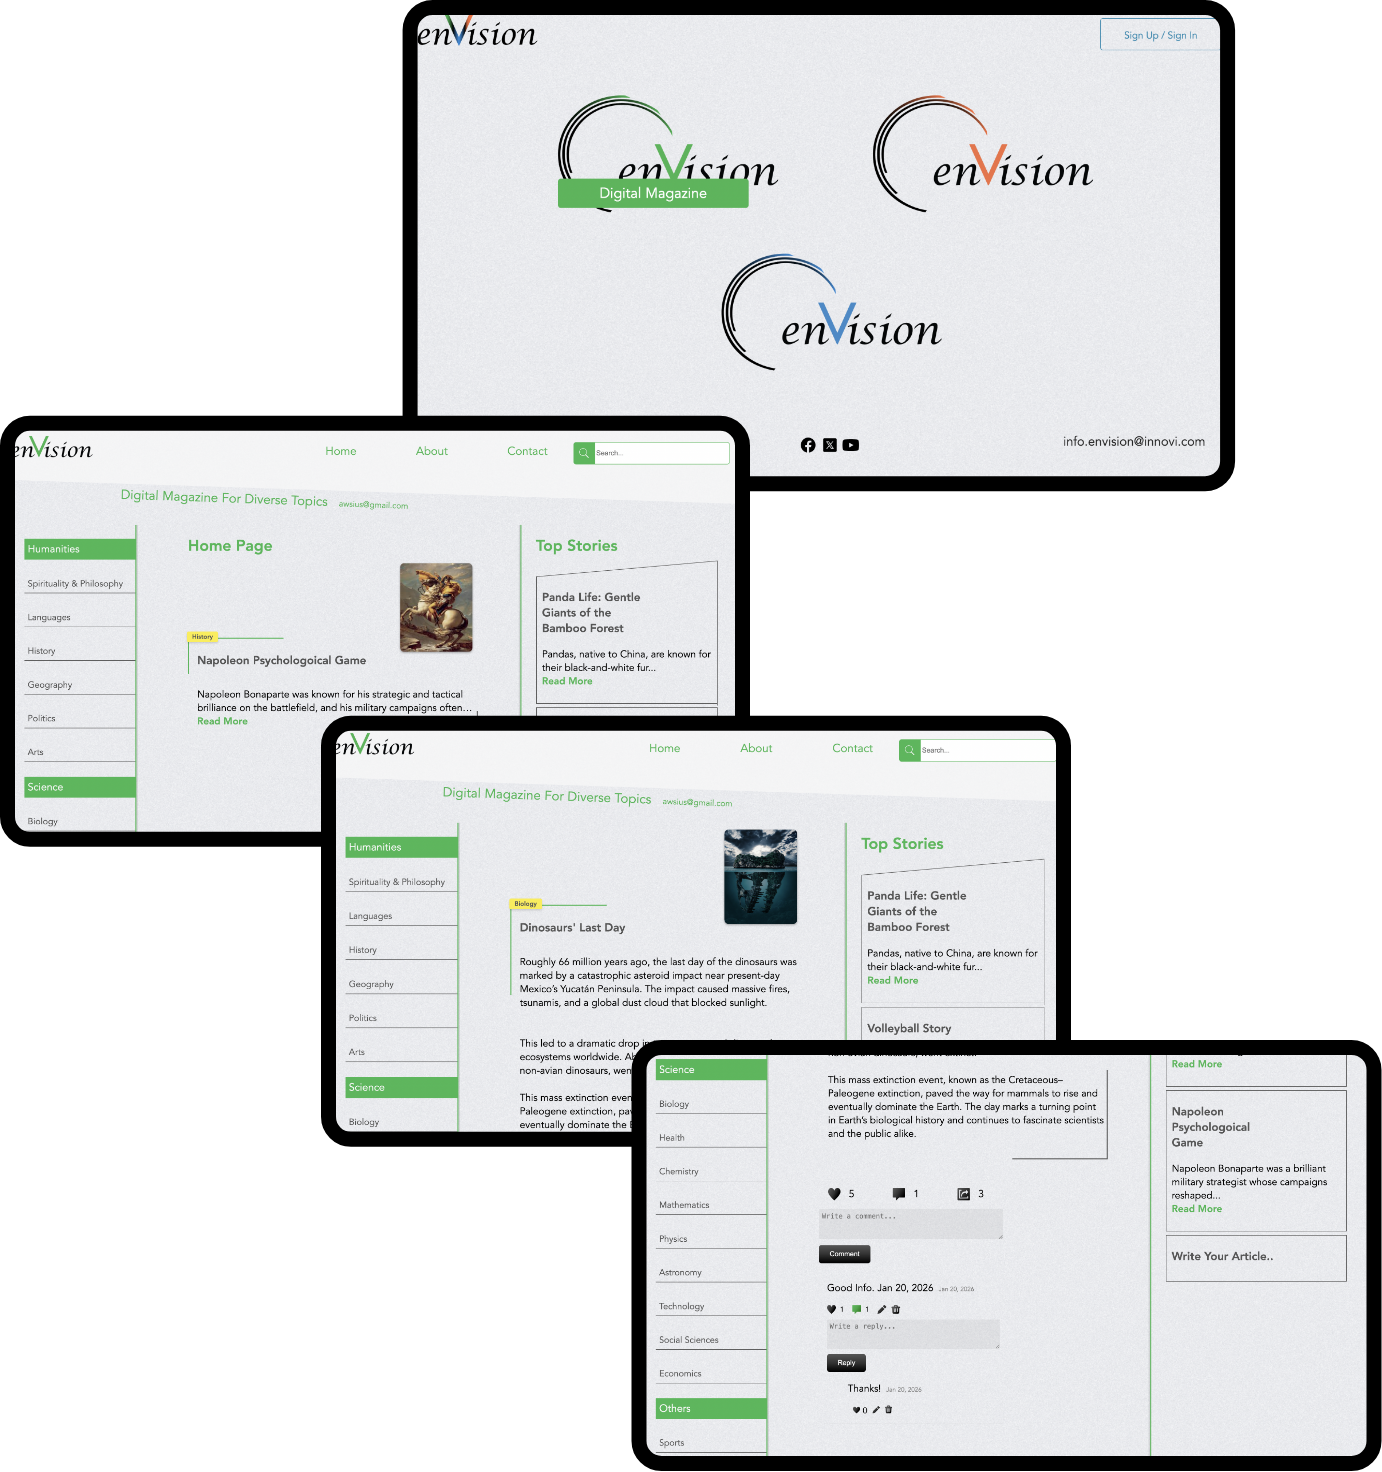
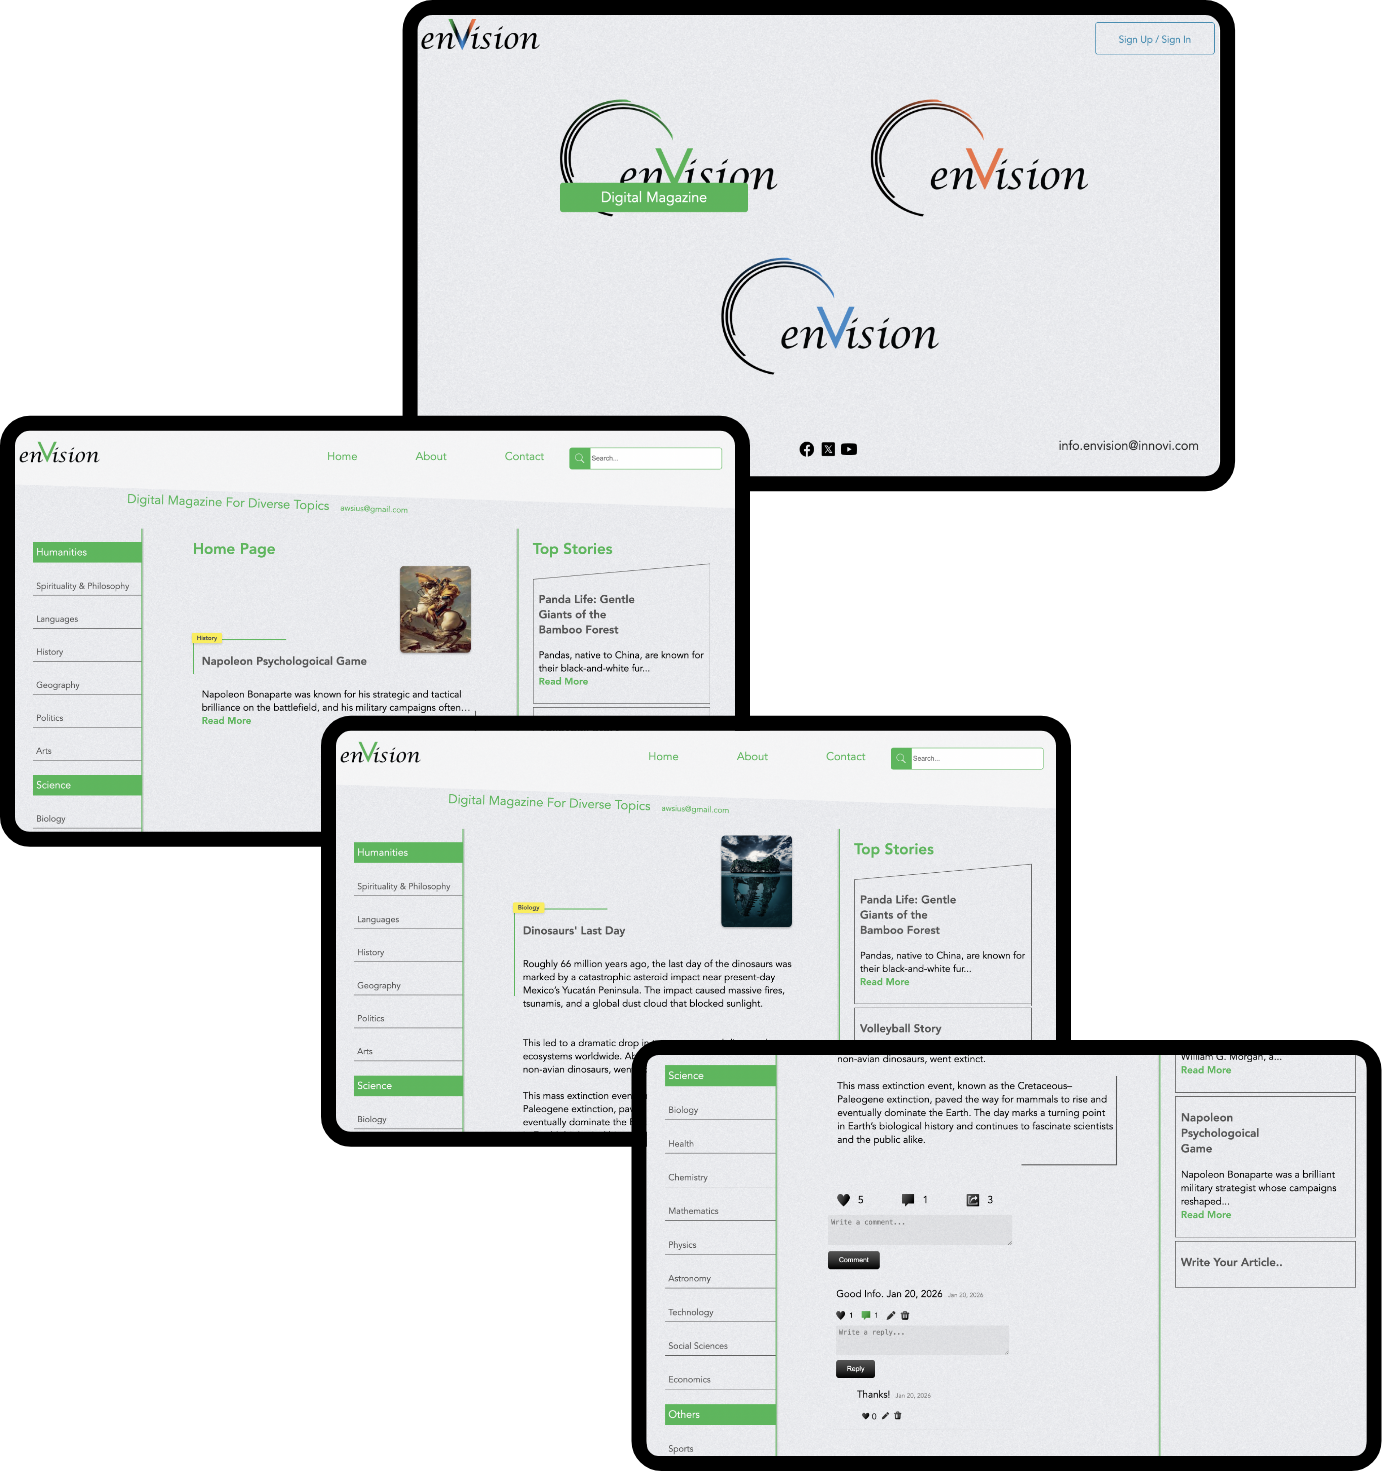
More Updates for Responsive Design

diff --git a/css/Gstyle.css b/css/Gstyle.css
@@ -470,6 +470,8 @@ footer p {
     }
      #allTop {
         background-size: 144%;
+        width: 260%;
+        margin-left: -3%;
     }
     .navigation {
         display: none;
@@ -518,7 +520,7 @@ footer p {
         height: 260%;
     }
     .purposeGG {
-        width: 280%;
+        width: 270%;
     }
     .divPM{
         width: 268%;
@@ -538,6 +540,10 @@ footer p {
 }
 
 @media (min-width: 374px) and (max-width: 376px) {
+
+    #allTop {
+        width: 266%;
+    }
     .gardengateImg {
         margin-top: -80%;
         height: 240%;
@@ -550,6 +556,9 @@ footer p {
     }
     .secFF {
         width: 257%;
+    }
+    .contact {
+        width: 266%;
     }
 } 
 
@@ -703,7 +712,7 @@ footer p {
         margin-top: -5%;
      }
     nav {
-        margin-top: -100%;
+        margin-top: -220%;
         margin-left: 35%;
     }
     nav a {

diff --git a/css/Vstyle.css b/css/Vstyle.css
@@ -912,15 +912,15 @@ footer p {
     }
     .protoEN {
         margin-left: -2%;
-        height: 222px;
+        height: 255px;
     }
     .protoEN2 {
-        margin-left: 0%;
-        height: 200px;
+        margin-left: 2%;
+        height: 175px;
     }
     .protoEN3 {
-        margin-left: -7%;
-        height: 222px;
+        margin-left: 0%;
+        height: 175px;
     }
     footer{
         width: 100%;
@@ -976,6 +976,9 @@ footer p {
         height: 17%;
         margin-top: 0%;
     }
+    .copyright{
+        width: 100.3%;
+    }
 }
 
 
@@ -998,6 +1001,7 @@ footer p {
     }
     #allTop{
         width: 102%;
+        background-size: 120%;
     }
     #heroContent {
         width: 100%;
@@ -1155,7 +1159,7 @@ footer p {
         margin-bottom: -2%;
     }
     .copyright{
-        width: 100%;
+        width: 100.3%;
     }
 }
 

diff --git a/css/Cstyle.css b/css/Cstyle.css
@@ -519,7 +519,7 @@ footer p {
     }
     #allTop {
         background-size: 150%;
-        width: 281%;
+        width: 268%;
         margin-left: -4%;
     }
     .navigation {
@@ -613,7 +613,7 @@ footer p {
     }
      #allTop {
         background-size: 144%;
-        width: 270%;
+        width: 260%;
         margin-left: -3%;
     }
     .navigation {
@@ -661,14 +661,14 @@ footer p {
         width: 242%;
     }
     .whyUs {
-        width: 255%;
+        width: 250%;
         margin-bottom: -37%;
     }
     #contact {
-        width: 255%;
+        width: 260%;
     }
     .copyright {
-        width: 255%;
+        width: 260%;
     }
     .footerAbout {
         margin-left: 5%;

diff --git a/projects.html b/projects.html
@@ -332,7 +332,7 @@
         <section class="ViB">
                 <img src="images/ViB.png" class="ViBProto"/>
                 <div class="contentViB">
-                  <img src="images/ViBLg.png" class="projectsLogo TravelZone-logo"/>
+                  <img src="images/ViBLg.png" class="projectsLogo ViB-logo"/>
                   <p>
                     The website provides interactive visual boards that help users define and track their goals and dreams. It also offers related resources, templates, and products to support planning, inspiration, and progress in a structured and engaging way.
                   </p>

diff --git a/css/projects.css b/css/projects.css
@@ -254,7 +254,6 @@ a{
 
 .projectsLogo {
   width: 12%;
-  margin-left: 10%;
 }
 
 .content {
@@ -349,7 +348,7 @@ a{
 }
 
 .ViB-logo {
-    margin-left: 9%;
+    margin-left: 10%;
     width: 10%;
 }
 
@@ -604,7 +603,7 @@ footer p {
 } 
 
 @media (min-width: 389px) and (max-width: 391px) {
-  .sec {
+   .sec {
     width: 257%;
   }
 }
@@ -710,7 +709,7 @@ footer p {
     }
     #allTop {
         background-size: 144%;
-        width: 105%;
+        width: 106%;
     }
     #allTop a{
         font-size: 17px;

diff --git a/css/Astyle.css b/css/Astyle.css
@@ -1193,7 +1193,7 @@ footer p {
         margin-bottom: -2%;
     }
     .copyright{
-        width: 100%;
+        width: 103%;
     }
 
 }
@@ -1287,7 +1287,7 @@ footer p {
         margin-top: -2%;
     }
     .serviceSec {
-        margin-bottom: -22%;
+        margin-bottom: -25%;
     }
     footer{
         width: 100%;

diff --git a/css/style.css b/css/style.css
@@ -1247,7 +1247,7 @@ footer p {
         font-size: 17px;
     }
     #identity {
-        margin-top: -77%;
+        margin-top: -93%;
     }
     #values h3 {
         margin-left: 31%;
